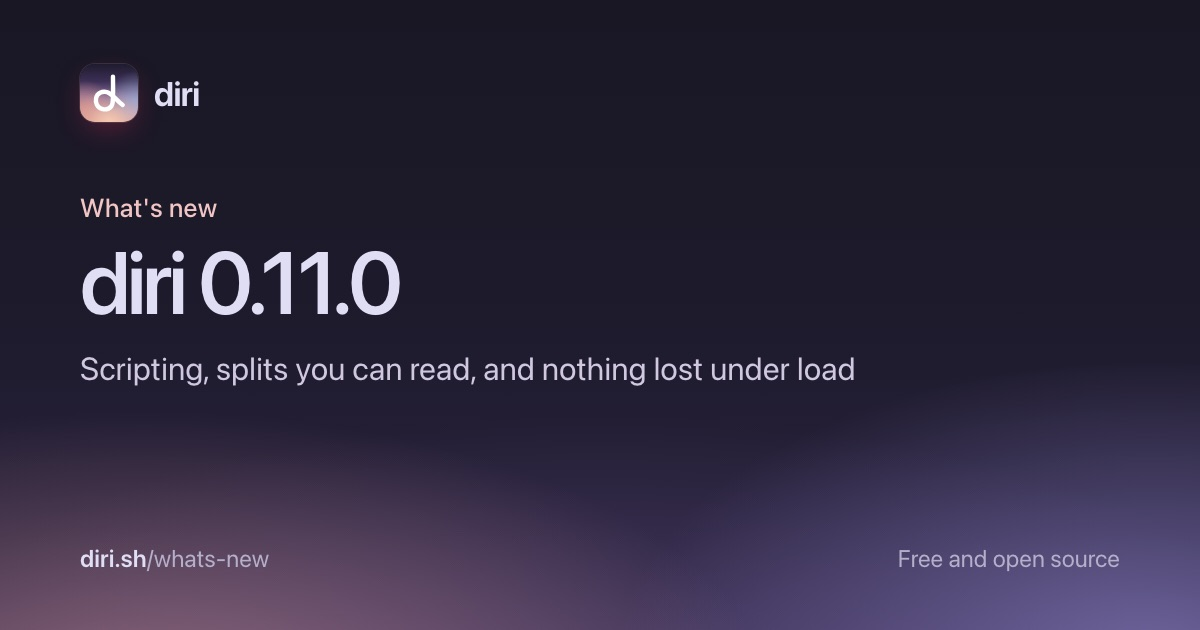
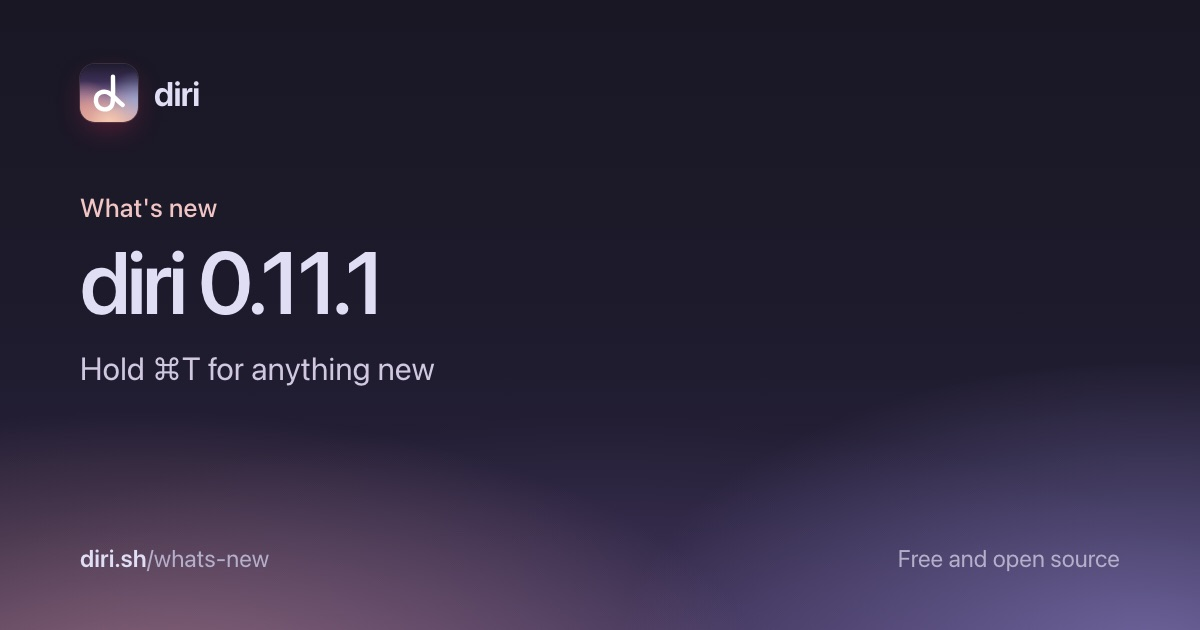
Bump diri to 0.11.1 (#1000)
- diri-app 0.11.1 (manifest + lockfile); prices.json synced from LiteLLM.
- What's New 0.11.1 on the website: Hold ⌘T, Talk with your agent,
  agents using the Mac side by side, find in a note, smoother notes;
  site and share cards regenerated.

Changed region(s): [[0.0617, 0.5429, 0.7092, 0.6032], [0.2775, 0.3921, 0.3392, 0.5127]]

diff --git a/website/whats-new/0.11.1/index.html b/website/whats-new/0.11.1/index.html
@@ -1,0 +1,59 @@
+<!doctype html>
+<html lang="en">
+<head>
+  <meta charset="utf-8">
+  <meta name="viewport" content="width=device-width, initial-scale=1">
+  <meta name="theme-color" content="#191724">
+  <title>diri 0.11.1: Hold ⌘T for anything new · Diri</title>
+  <meta name="description" content="diri 0.11.1 adds a launch ring on a held ⌘T, find in notes, smoother note scrolling, and safer computer use for agents working side by side.">
+  <meta name="robots" content="index, follow, max-image-preview:large">
+  <link rel="canonical" href="https://diri.sh/whats-new/0.11.1/">
+  <meta property="og:type" content="article">
+  <meta property="og:site_name" content="Diri">
+  <meta property="og:title" content="diri 0.11.1: Hold ⌘T for anything new">
+  <meta property="og:description" content="diri 0.11.1 adds a launch ring on a held ⌘T, find in notes, smoother note scrolling, and safer computer use for agents working side by side.">
+  <meta property="og:url" content="https://diri.sh/whats-new/0.11.1/">
+  <meta property="og:image" content="https://diri.sh/og/whats-new-0-11-1.jpg">
+  <meta property="og:image:width" content="1200">
+  <meta property="og:image:height" content="630">
+  <meta property="og:image:alt" content="diri 0.11.1: Hold ⌘T for anything new">
+  <meta name="twitter:card" content="summary_large_image">
+  <link rel="icon" href="/favicon.svg" type="image/svg+xml">
+  <link rel="stylesheet" href="/style.css">
+  <link rel="stylesheet" href="/guides.css">
+  <link rel="stylesheet" href="/docs.css">
+  <script src="/docs.js" defer></script>
+  <script type="application/ld+json">{"@context":"https://schema.org","@type":"TechArticle","headline":"diri 0.11.1: Hold ⌘T for anything new","description":"diri 0.11.1 adds a launch ring on a held ⌘T, find in notes, smoother note scrolling, and safer computer use for agents working side by side.","url":"https://diri.sh/whats-new/0.11.1/","inLanguage":"en","datePublished":"2026-11-02","publisher":{"@type":"Organization","name":"Diri","url":"https://diri.sh/"}}</script>
+  <script type="module" src="/stats.js"></script>
+</head>
+<body class="guide-page article-page">
+  <a class="skip-link" href="#main">Skip to content</a>
+  <div class="site-wrap">
+    <header class="site-header">
+      <a class="wordmark" href="/" aria-label="Diri home"><img class="app-mark" src="/assets/brand/diri-icon.svg" width="26" height="26" alt="">diri</a>
+      <nav class="site-nav" aria-label="Main"><a href="/#features">Features</a><a href="/guides/">Guides</a><a href="/docs/">Docs</a></nav>
+      <div class="header-actions"><a class="github-link" href="https://github.com/cristicretu/diri" aria-label="Diri on GitHub" title="Diri on GitHub"><span class="icon" data-icon="github" aria-hidden="true"></span><span class="star-count" aria-hidden="true"></span></a><a class="nav-download" href="https://github.com/cristicretu/diri/releases/latest">Download</a></div>
+    </header>
+    <main id="main">
+      <header class="guide-heading"><a class="eyebrow" href="/whats-new/">What's new · November 2, 2026</a><h1>diri 0.11.1: Hold ⌘T for anything new</h1><p>diri 0.11.1 adds a launch ring on a held ⌘T, find in notes, smoother note scrolling, and safer computer use for agents working side by side.</p></header>
+      <div class="guide-layout"><span></span>
+        <article class="docs-content article-content">
+<div class="whats-new release-page"><section class="release"><article class="release-item"><figure class="release-clip"><img src="/assets/whats-new/launch-ring.webp" width="1440" height="900" alt="Holding ⌘T opens a ring of agents under the pointer; the pointer glides past Codex to Terminal, and letting go opens a new terminal." loading="lazy" decoding="async"></figure><h3>Hold ⌘T for anything new</h3><p>Hold ⌘T and a ring opens under the pointer: flick toward an agent, Terminal or Note and let go. A tap still starts your default agent, and holding the keys never starts more than one.</p></article><article class="release-item"><figure class="release-clip"><img src="/assets/features/voice.webp" width="1280" height="900" alt="Claude Code finishes a fix, diri reads its question aloud, and the spoken answer lands in the prompt and is sent." loading="lazy" decoding="async"></figure><h3>Talk with your agent</h3><p>When an agent finishes, diri reads what matters aloud. Answer out loud and end with “send to agent”. Everything stays on this Mac.</p></article><article class="release-item"><figure class="release-clip"><img src="/assets/features/computer.webp" width="2280" height="1400" alt="Claude Code, Codex and Pi each drive their own iPhone Simulator at once, every agent with a labelled cursor." loading="lazy" decoding="async"></figure><h3>Agents use your Mac, side by side</h3><p>Agents open apps in the background, each with its own cursor, and ten can work at once without touching your mouse or keyboard. Computer use now waits for controls to be ready and checks each action landed.</p></article><article class="release-item"><h3>Find in a note</h3><p>⌘F searches the open note, every match highlighted. ⌘B makes text bold.</p></article><article class="release-item"><h3>Smoother notes</h3><p>Notes scroll smoothly, wide tables scroll sideways on their own, and the line you're reading holds still.</p></article></section></div>
+<p>Every fix and smaller change is in the <a href="https://github.com/cristicretu/diri/releases/tag/v0.11.1">full release notes</a>. diri updates itself; this release shows up as a restart prompt when it is ready.</p>
+        <aside class="install-box">
+          <div class="install-copy"><strong>Get diri 0.11.1</strong><span>Free and open source. macOS 15 or newer, Linux in beta. Bring the agent CLIs and accounts you already have.</span></div>
+          <div class="install-actions"><a class="button primary" href="https://github.com/cristicretu/diri/releases/latest"><span class="icon" data-icon="download" aria-hidden="true"></span>Download for macOS</a><div class="code-block install-brew" data-lang="sh"><button class="code-copy" type="button" aria-label="Copy code"><span class="icon" aria-hidden="true"></span></button><pre><code><span class="tk-cmd">brew</span> install <span class="tk-flag">--cask</span> diri</code></pre></div></div>
+        </aside>
+        <nav class="docs-pager" aria-label="Other releases"><a class="prev" href="/whats-new/0.11.0/"><span>Older</span>diri 0.11.0</a><a class="next" href="/whats-new/"><span>All releases</span>What's new</a></nav>
+        </article>
+      </div>
+    </main>
+    <footer class="site-footer">
+      <div class="footer-main">
+        <a class="footer-brand" href="/" aria-label="Diri home"><img class="app-mark" src="/assets/brand/diri-icon.svg" width="26" height="26" alt="">diri</a>
+        <nav class="footer-links" aria-label="Resources"><a href="https://github.com/cristicretu/diri/releases/latest">Download</a><a href="/whats-new/">What's new</a><a href="/docs/">Docs</a><a href="/guides/">Guides</a><a href="/agents/">Agents</a><a href="/compare/">Compare</a><a href="https://github.com/cristicretu/diri/blob/main/ROADMAP.md">Roadmap</a><a href="https://github.com/cristicretu/diri">GitHub</a><a href="https://github.com/cristicretu/diri/blob/main/PRIVACY.md">Privacy</a><a href="https://github.com/cristicretu/diri/blob/main/SECURITY.md">Security</a><a href="https://github.com/cristicretu/diri/blob/main/LICENSE">AGPL-3.0</a></nav>
+      </div>
+    </footer>
+  </div>
+</body>
+</html>

diff --git a/website/whats-new/index.html b/website/whats-new/index.html
@@ -33,6 +33,7 @@
     </header>
     <main id="main" class="guide-index whats-new">
       <header class="guide-heading"><span class="eyebrow">What's new</span><h1>What's new in diri</h1><p>The highlights of each release. Every change is in the <a href="https://github.com/cristicretu/diri/releases">release notes</a>.</p></header>
+      <section class="release" id="v0.11.1"><header class="release-heading"><h2><a href="/whats-new/0.11.1/">diri 0.11.1</a></h2><span>November 2, 2026</span></header><article class="release-item"><figure class="release-clip"><img src="/assets/whats-new/launch-ring.webp" width="1440" height="900" alt="Holding ⌘T opens a ring of agents under the pointer; the pointer glides past Codex to Terminal, and letting go opens a new terminal." loading="lazy" decoding="async"></figure><h3>Hold ⌘T for anything new</h3><p>Hold ⌘T and a ring opens under the pointer: flick toward an agent, Terminal or Note and let go. A tap still starts your default agent, and holding the keys never starts more than one.</p></article><article class="release-item"><figure class="release-clip"><img src="/assets/features/voice.webp" width="1280" height="900" alt="Claude Code finishes a fix, diri reads its question aloud, and the spoken answer lands in the prompt and is sent." loading="lazy" decoding="async"></figure><h3>Talk with your agent</h3><p>When an agent finishes, diri reads what matters aloud. Answer out loud and end with “send to agent”. Everything stays on this Mac.</p></article><article class="release-item"><figure class="release-clip"><img src="/assets/features/computer.webp" width="2280" height="1400" alt="Claude Code, Codex and Pi each drive their own iPhone Simulator at once, every agent with a labelled cursor." loading="lazy" decoding="async"></figure><h3>Agents use your Mac, side by side</h3><p>Agents open apps in the background, each with its own cursor, and ten can work at once without touching your mouse or keyboard. Computer use now waits for controls to be ready and checks each action landed.</p></article><article class="release-item"><h3>Find in a note</h3><p>⌘F searches the open note, every match highlighted. ⌘B makes text bold.</p></article><article class="release-item"><h3>Smoother notes</h3><p>Notes scroll smoothly, wide tables scroll sideways on their own, and the line you're reading holds still.</p></article></section>
       <section class="release" id="v0.11.0"><header class="release-heading"><h2><a href="/whats-new/0.11.0/">diri 0.11.0</a></h2><span>October 30, 2026</span></header><article class="release-item"><h3>Script diri with Lua</h3><p>An init.lua in ~/.config/diri adds keys, key modes, palette commands and event handlers, and reloads when you save. dirijor script runs one-off scripts.</p></article><article class="release-item"><h3>Splits you can read at a glance</h3><p>A split tab draws its layout in the sidebar and tab strip, each pane colored by what it's doing. Drag panes by their title to rearrange them.</p></article><article class="release-item"><h3>See the question, keep the title</h3><p>A waiting session keeps its name and shows its question on a second line.</p></article><article class="release-item"><h3>Bring your terminal setup</h3><p>Import font, theme and cursor from Ghostty, iTerm2, WezTerm, kitty, Alacritty or Terminal, with every change shown first.</p></article><article class="release-item"><h3>Nothing lost, less waiting</h3><p>Floods of output arrive complete, idle tabs cost nothing, Find searches all of history, and resizing keeps every line.</p></article><article class="release-item"><h3>A faster terminal core</h3><p>diri's terminal engine is rewritten and processes terminal text 3–4× faster.</p></article></section>
       <section class="release" id="v0.10.0"><header class="release-heading"><h2><a href="/whats-new/0.10.0/">diri 0.10.0</a></h2><span>October 18, 2026</span></header><article class="release-item"><h3>Talk with your agent</h3><p>When an agent finishes, diri reads a short summary aloud. Answer by voice and end with &quot;send to agent&quot;.</p></article><article class="release-item"><h3>Agents can use your Mac's apps</h3><p>A background computer tool drives real Mac apps while your cursor, keyboard, and focus stay yours.</p></article><article class="release-item"><h3>Model prices stay current</h3><p>Claude and Codex cost estimates use rates fetched from LiteLLM when the release is built, including new model ids such as gpt-6.1-sol.</p></article><article class="release-item"><h3>AGPL-3.0</h3><p>diri stays free, including for commercial use. If you distribute a modified copy, or let people use one over a network, you must offer them its source under the same license.</p></article></section>
       <section class="release" id="v0.9.0"><header class="release-heading"><h2><a href="/whats-new/0.9.0/">diri 0.9.0</a></h2><span>October 1, 2026</span></header><article class="release-item"><figure class="release-clip"><img src="/assets/whats-new/notes.webp" width="1440" height="900" alt="A blank note becomes a launch plan: a title, a to-do from the slash menu, and an @ mention that links a running Claude Code session." loading="lazy" decoding="async"></figure><h3>Notes</h3><p>Think next to your agents. Type / for blocks and @ to link a session; every note is plain Markdown on disk.</p></article><article class="release-item"><figure class="release-clip"><img src="/assets/whats-new/todos.webp" width="1440" height="900" alt="A to-do opens the Start panel, becomes a Claude Code session in the sidebar, asks a question, and finishes ready to review." loading="lazy" decoding="async"></figure><h3>To-dos that start agents</h3><p>Press ⌃⌘↩ on a to-do to hand it to an agent with the note as context. Its progress shows up right under the to-do.</p></article><article class="release-item"><figure class="release-clip"><img src="/assets/whats-new/search.webp" width="1440" height="900" alt="Typing pricing in Search notes finds three notes by what they say." loading="lazy" decoding="async"></figure><h3>Search every note</h3><p>⇧⌘F finds a note by anything it says, not just its title.</p></article></section>

diff --git a/website/whats-new/0.11.0/index.html b/website/whats-new/0.11.0/index.html
@@ -44,7 +44,7 @@
           <div class="install-copy"><strong>Get diri 0.11.0</strong><span>Free and open source. macOS 15 or newer, Linux in beta. Bring the agent CLIs and accounts you already have.</span></div>
           <div class="install-actions"><a class="button primary" href="https://github.com/cristicretu/diri/releases/latest"><span class="icon" data-icon="download" aria-hidden="true"></span>Download for macOS</a><div class="code-block install-brew" data-lang="sh"><button class="code-copy" type="button" aria-label="Copy code"><span class="icon" aria-hidden="true"></span></button><pre><code><span class="tk-cmd">brew</span> install <span class="tk-flag">--cask</span> diri</code></pre></div></div>
         </aside>
-        <nav class="docs-pager" aria-label="Other releases"><a class="prev" href="/whats-new/0.10.0/"><span>Older</span>diri 0.10.0</a><a class="next" href="/whats-new/"><span>All releases</span>What's new</a></nav>
+        <nav class="docs-pager" aria-label="Other releases"><a class="prev" href="/whats-new/0.10.0/"><span>Older</span>diri 0.10.0</a><a class="next" href="/whats-new/0.11.1/"><span>Newer</span>diri 0.11.1</a></nav>
         </article>
       </div>
     </main>
